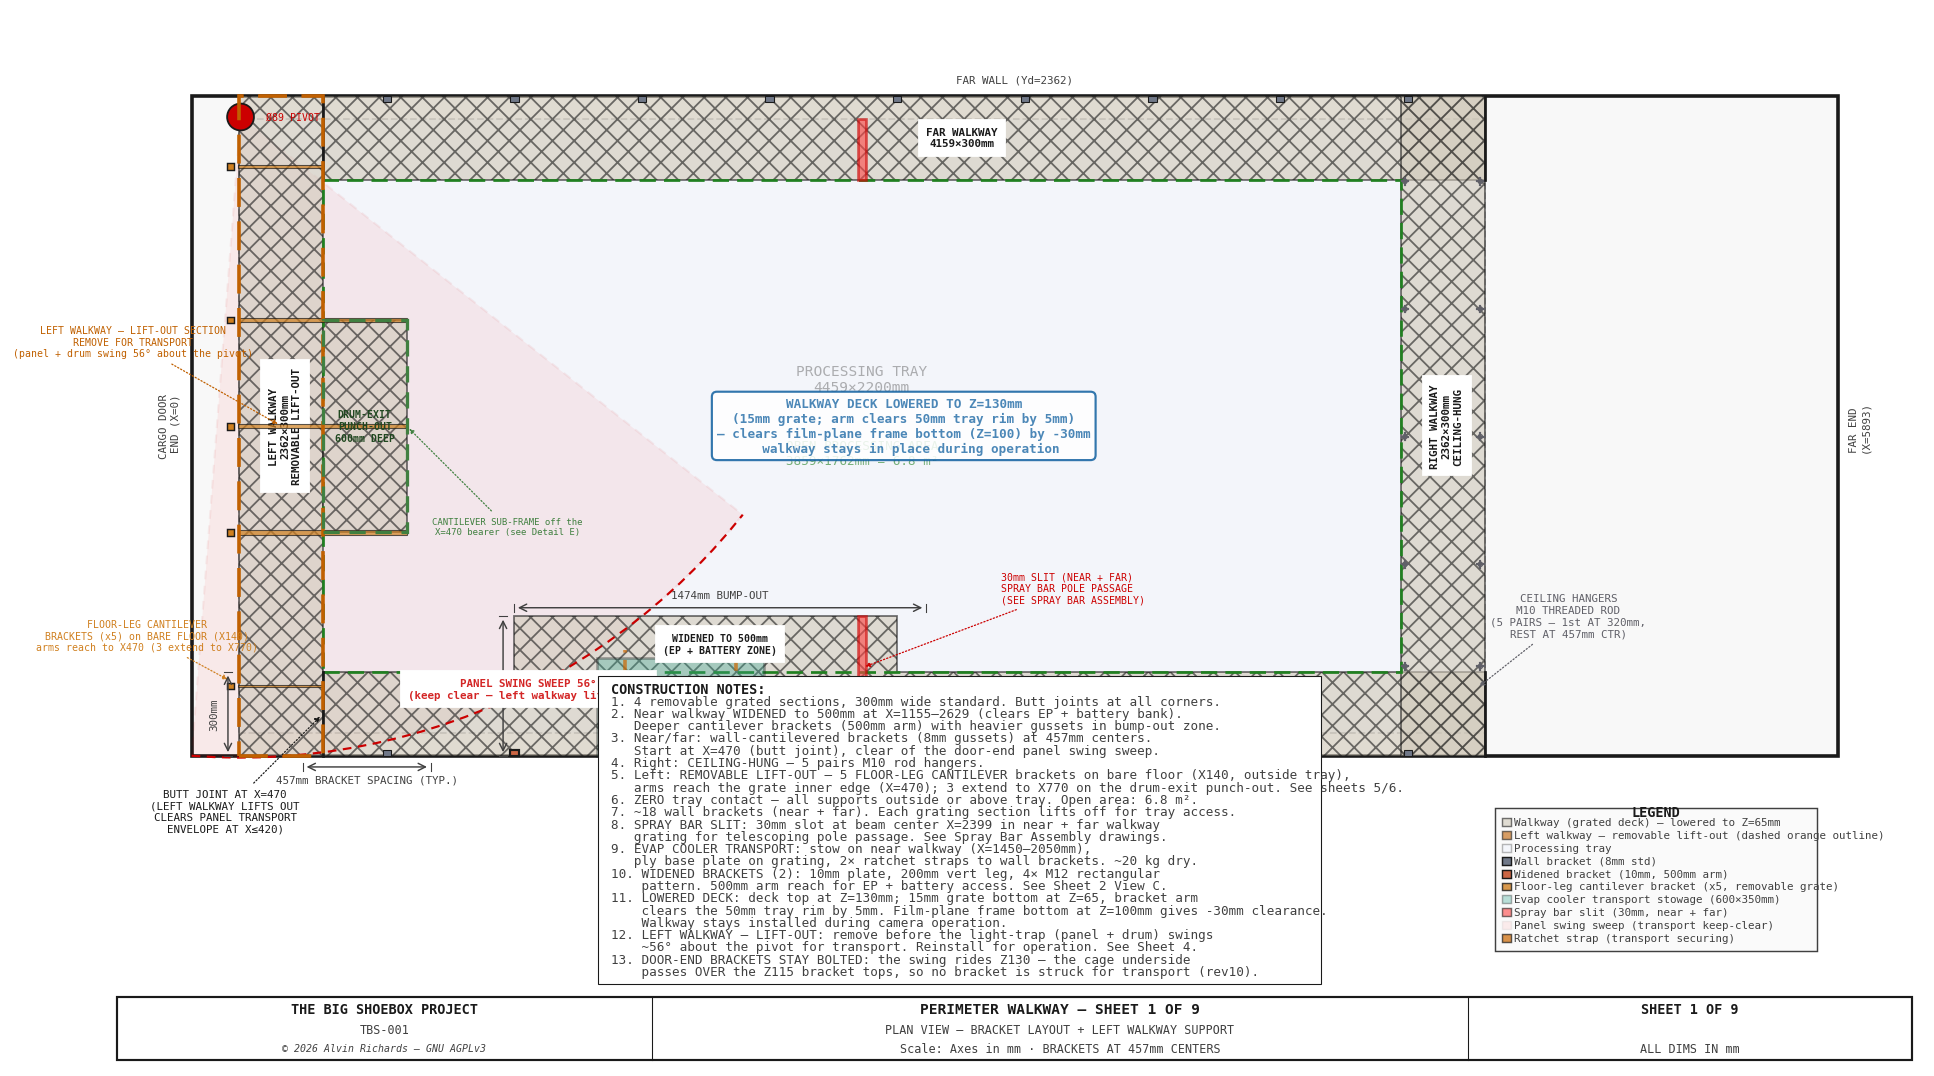
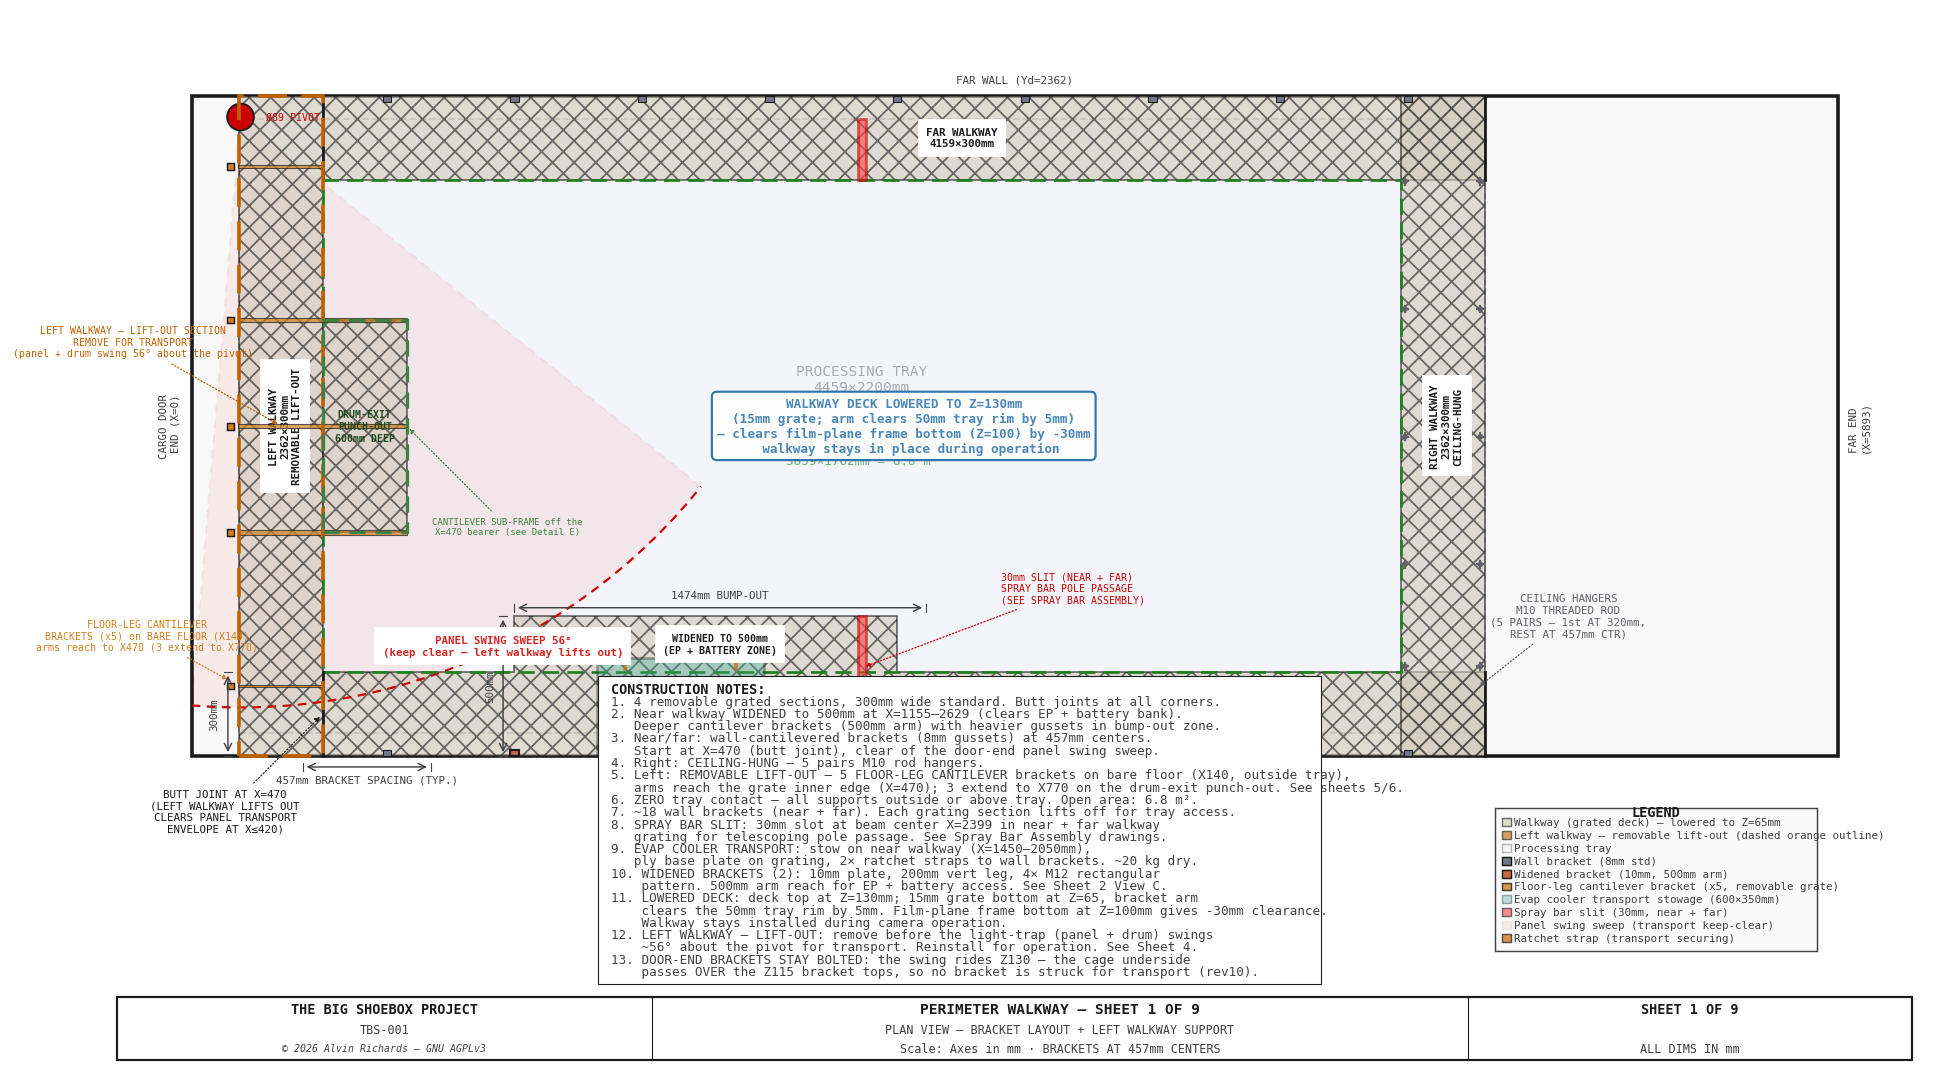
Swing arc/panel: start at the fixed-panel edge (Yd=PANEL_CUT_YD), not the full-width edge
The fixed near strip (Yd 0–180) does not swing, so the swinging part starts at
PANEL_CUT_YD — the arc should run from there (the fixed-panel edge on the frame) to
the swung tip, and the swung panel is correspondingly shorter:

- assembly-overview-plan (TRANSPORT mode): draw_stepped_panel now clips the swung
  zones to the swinging part (Yd PANEL_CUT_YD..FAR_STRIP_YD0) so the panel reads
  shorter; the swing arc traces (X=0, Yd=PANEL_CUT_YD) instead of Yd=0.
- walkway-sheet1: the swing-sweep sector/arc now traces the swinging part's free
  edge at Yd=PANEL_CUT_YD instead of Yd=0.

(floorplan + hingepanel Sheet 4 already traced from PANEL_CUT_YD — unchanged.)

Changed region(s): [[0.1861, 0.5827, 0.3413, 0.6747]]

diff --git a/src/generators/generate_assembly_overview.py b/src/generators/generate_assembly_overview.py
@@ -843,16 +843,24 @@ def _swing(X, Yd, deg):
 def draw_stepped_panel(ax, panel_x_outer, alpha=0.85, swing_deg=0):
     """Draw the stepped panel in plan view, optionally swung `swing_deg` about
     the pivot. panel_x_outer = X of the panel's exterior face (0 = operational).
-    Each zone is a polygon through its 4 rotated corners (deg=0 \u21D2 rectangles)."""
+    Each zone is a polygon through its 4 rotated corners (deg=0 \u21D2 rectangles).
+    When swung, only the SWINGING part (Yd PANEL_CUT_YD..FAR_STRIP_YD0) rotates \u2014
+    the fixed near/far strips stay at the door plane (drawn separately), so the
+    swung panel is shorter than the full panel width."""
     zones = [
         (0, PANEL_CORNER_YD_L, PANEL_CORNER_T, C_HINGE_PANEL),              # near corner (40mm)
         (PANEL_CORNER_YD_L, PANEL_CORNER_YD_R, PANEL_CENTER_T, C_PANEL_C),  # center (120mm)
         (PANEL_CORNER_YD_R, C_WID, PANEL_CORNER_T, C_HINGE_PANEL),          # far corner (40mm)
     ]
+    # clip to the swinging part when swung; full width when operational
+    yd_lo, yd_hi = (PANEL_CUT_YD, FAR_STRIP_YD0) if swing_deg else (0, C_WID)
     for yd0, yd1, t, fc in zones:
+        y0, y1 = max(yd0, yd_lo), min(yd1, yd_hi)
+        if y1 <= y0:
+            continue
         x0, x1 = panel_x_outer, panel_x_outer + t
-        pts = [_swing(x0, yd0, swing_deg), _swing(x1, yd0, swing_deg),
-               _swing(x1, yd1, swing_deg), _swing(x0, yd1, swing_deg)]
+        pts = [_swing(x0, y0, swing_deg), _swing(x1, y0, swing_deg),
+               _swing(x1, y1, swing_deg), _swing(x0, y1, swing_deg)]
         ax.add_patch(mpatches.Polygon(pts, closed=True, facecolor=fc,
                      edgecolor=C_OUT, linewidth=1.0, alpha=alpha, zorder=5))
 
@@ -959,8 +967,9 @@ ax_tr.plot([0, C_WID], [-CONT_WALL, -CONT_WALL], color="#CC2020", lw=1.2,
 ax_tr.text(C_WID + 250, -CONT_WALL, "Door closure\nplane",
            ha="left", va="center", fontsize=FS_SM - 1, color="#CC2020", zorder=8)
 
-# Swing arc — traced by the panel free edge (Yd=0) from 0° to the lock angle
-arc_pts = [_swing(OP_PANEL_X, 0, dd) for dd in range(0, TR_SWING_DEG + 1, 3)]
+# Swing arc — from the fixed-panel edge (Yd=PANEL_CUT_YD) to the swung tip, tracing
+# the swinging part's free corner from 0° to the lock angle
+arc_pts = [_swing(OP_PANEL_X, PANEL_CUT_YD, dd) for dd in range(0, TR_SWING_DEG + 1, 3)]
 ax_tr.plot([p[0] for p in arc_pts], [p[1] for p in arc_pts],
            color="#2060A0", lw=1.5, ls=(0, (5, 3)), zorder=8)
 arc_mid = arc_pts[int(len(arc_pts) * 0.6)]

diff --git a/src/generators/generate_walkway_diagram.py b/src/generators/generate_walkway_diagram.py
@@ -63,7 +63,7 @@ from tbs_constants import (
     PROC_TRAY_YD_NEAR, PROC_TRAY_YD_FAR, PROC_TRAY_RIM,
     WALKWAY_W, WALKWAY_H, WALKWAY_GRATE_T, WALKWAY_RIGHT_W,
     WALKWAY_BRACKET_H, WALKWAY_BRACKET_T, WALKWAY_BRACKET_SPACING,
-    PIVOT_X, PIVOT_YD, SWING_LOCK_DEG,
+    PIVOT_X, PIVOT_YD, SWING_LOCK_DEG, PANEL_CUT_YD,
     WALKWAY_RIGHT_BEARER_SIZE, WALKWAY_RIGHT_BEARER_T,
     WALKWAY_RIGHT_HANGER_D, WALKWAY_RIGHT_HANGER_N, WALKWAY_RIGHT_HANGER_Y1, WALKWAY_RIGHT_HANGER_L,
     WALKWAY_RIGHT_CEIL_PLATE, WALKWAY_RIGHT_CEIL_BOLT_D,
@@ -966,12 +966,13 @@ def sheet1():
     # rev10: the cargo panel + drum SWING ~56° about the Ø89 pivot (PIVOT_X, PIVOT_YD),
     # they no longer slide. The left walkway must lift out before the swing so the
     # swinging cage can transition the X=150 rail line / near-door deck. Shade the
-    # sector swept by the panel free edge — the keep-clear transport zone.
+    # sector swept by the SWINGING part's free edge (Yd=PANEL_CUT_YD — the fixed near
+    # strip Yd0..180 does NOT swing) — the keep-clear transport zone.
     def _sw(x, y, deg):
         t = np.radians(deg); c, s = np.cos(t), np.sin(t)
         return (PIVOT_X + (x - PIVOT_X) * c - (y - PIVOT_YD) * s,
                 PIVOT_YD + (x - PIVOT_X) * s + (y - PIVOT_YD) * c)
-    sweep_arc = [_sw(0, 0, d) for d in np.linspace(0, SWING_LOCK_DEG, 28)]
+    sweep_arc = [_sw(0, PANEL_CUT_YD, d) for d in np.linspace(0, SWING_LOCK_DEG, 28)]
     ax.add_patch(Polygon([(PIVOT_X, PIVOT_YD)] + sweep_arc, closed=True,
                          fc="#FF0000", ec="#CC0000", lw=1.2, ls=(0, (4, 3)),
                          alpha=0.06, zorder=3))
